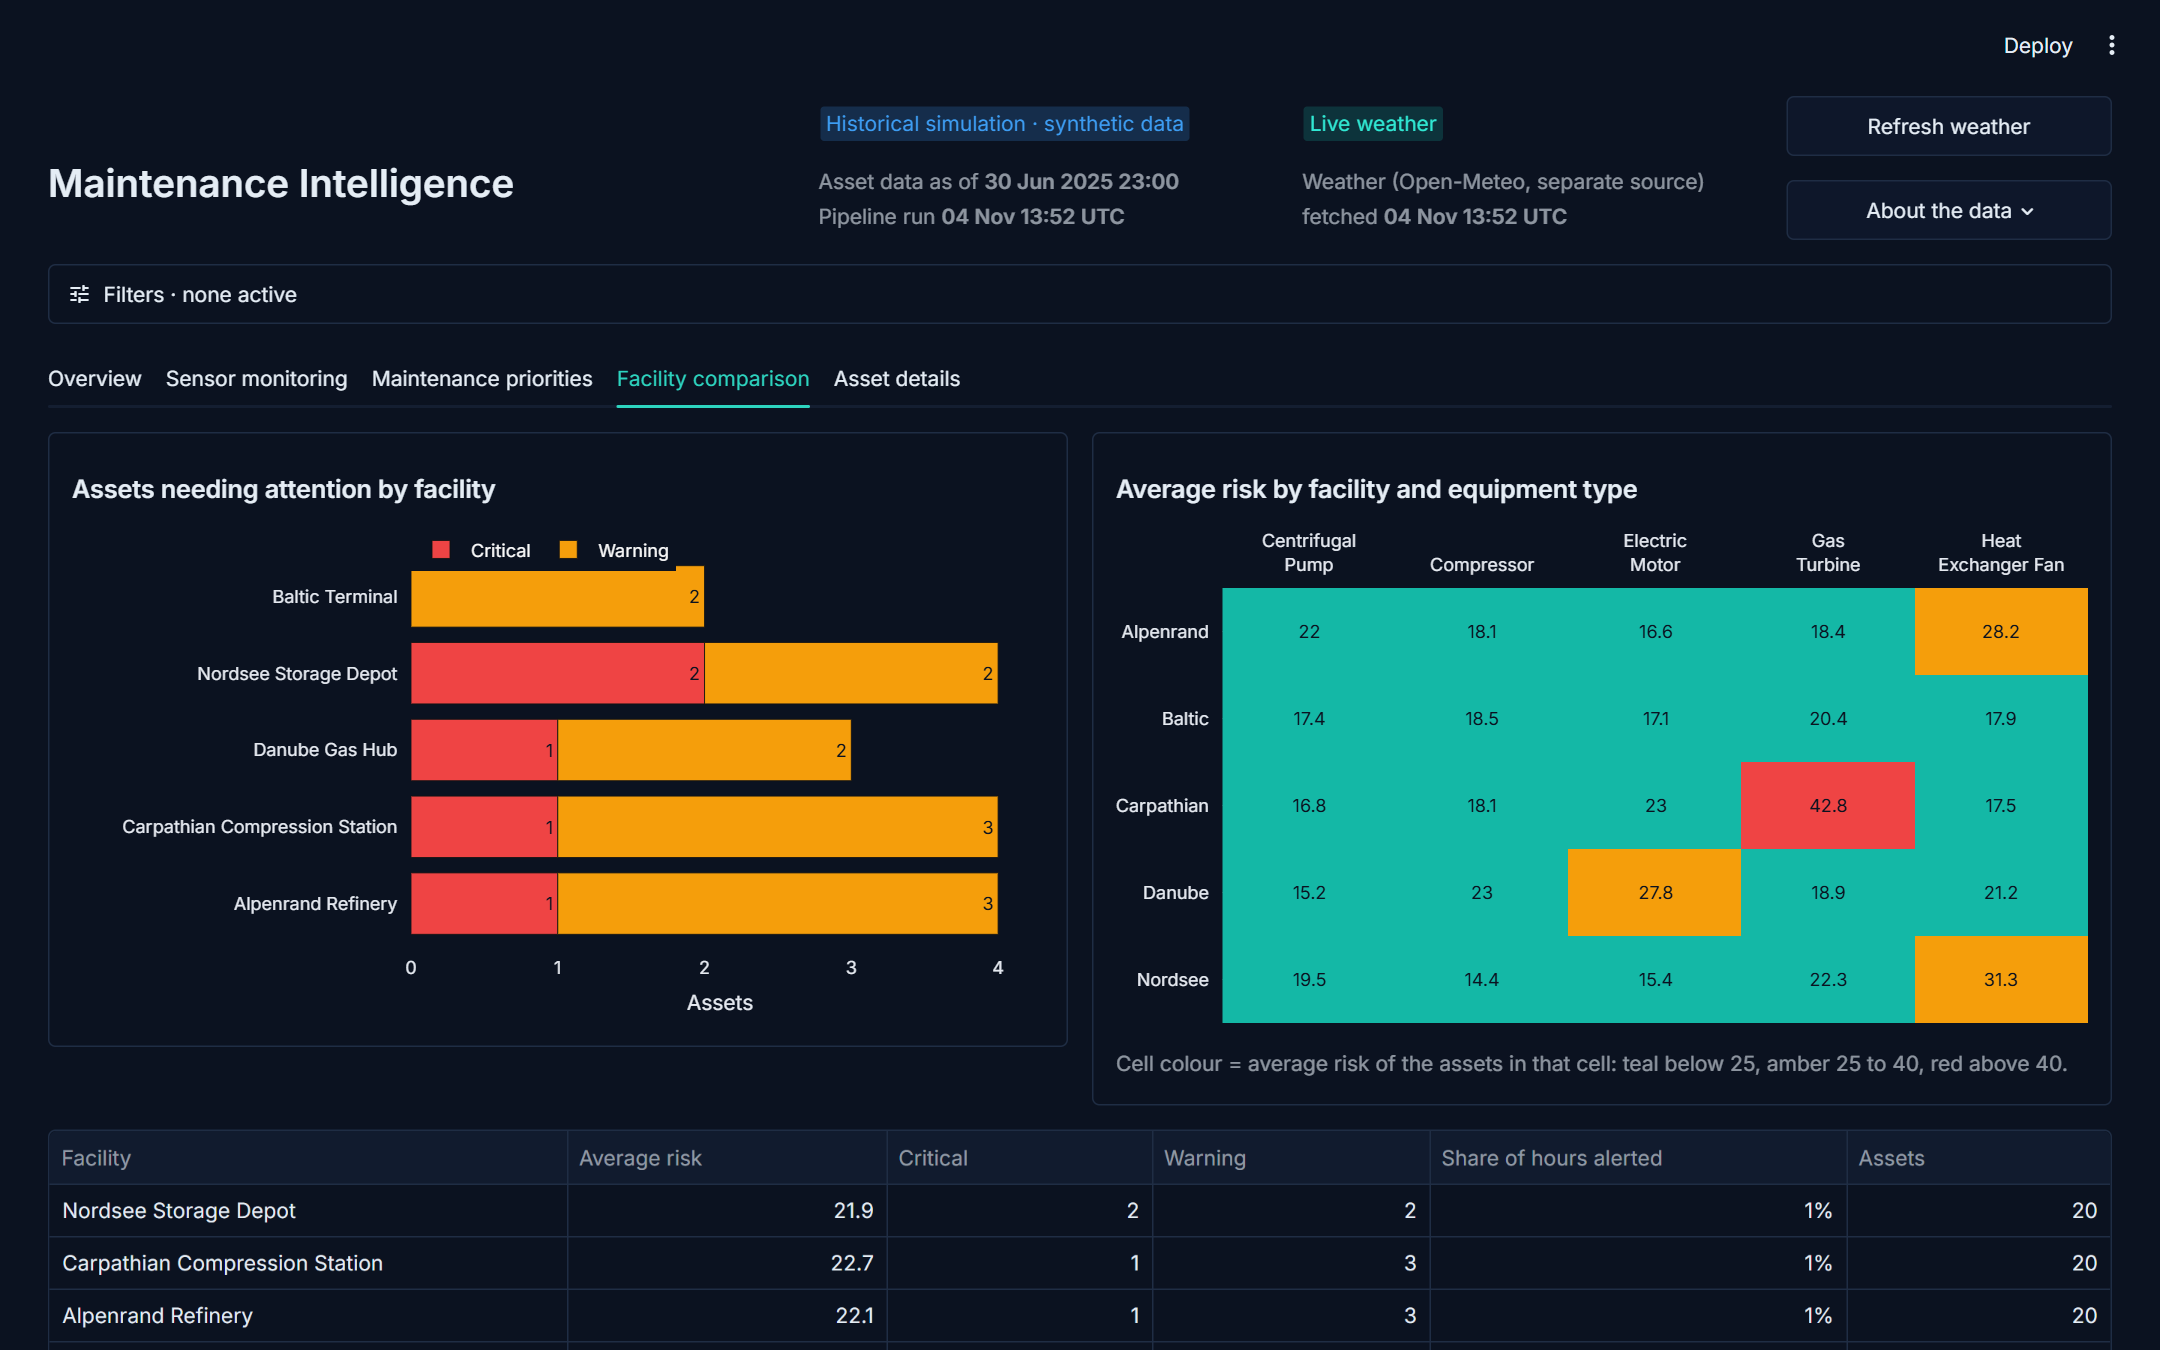
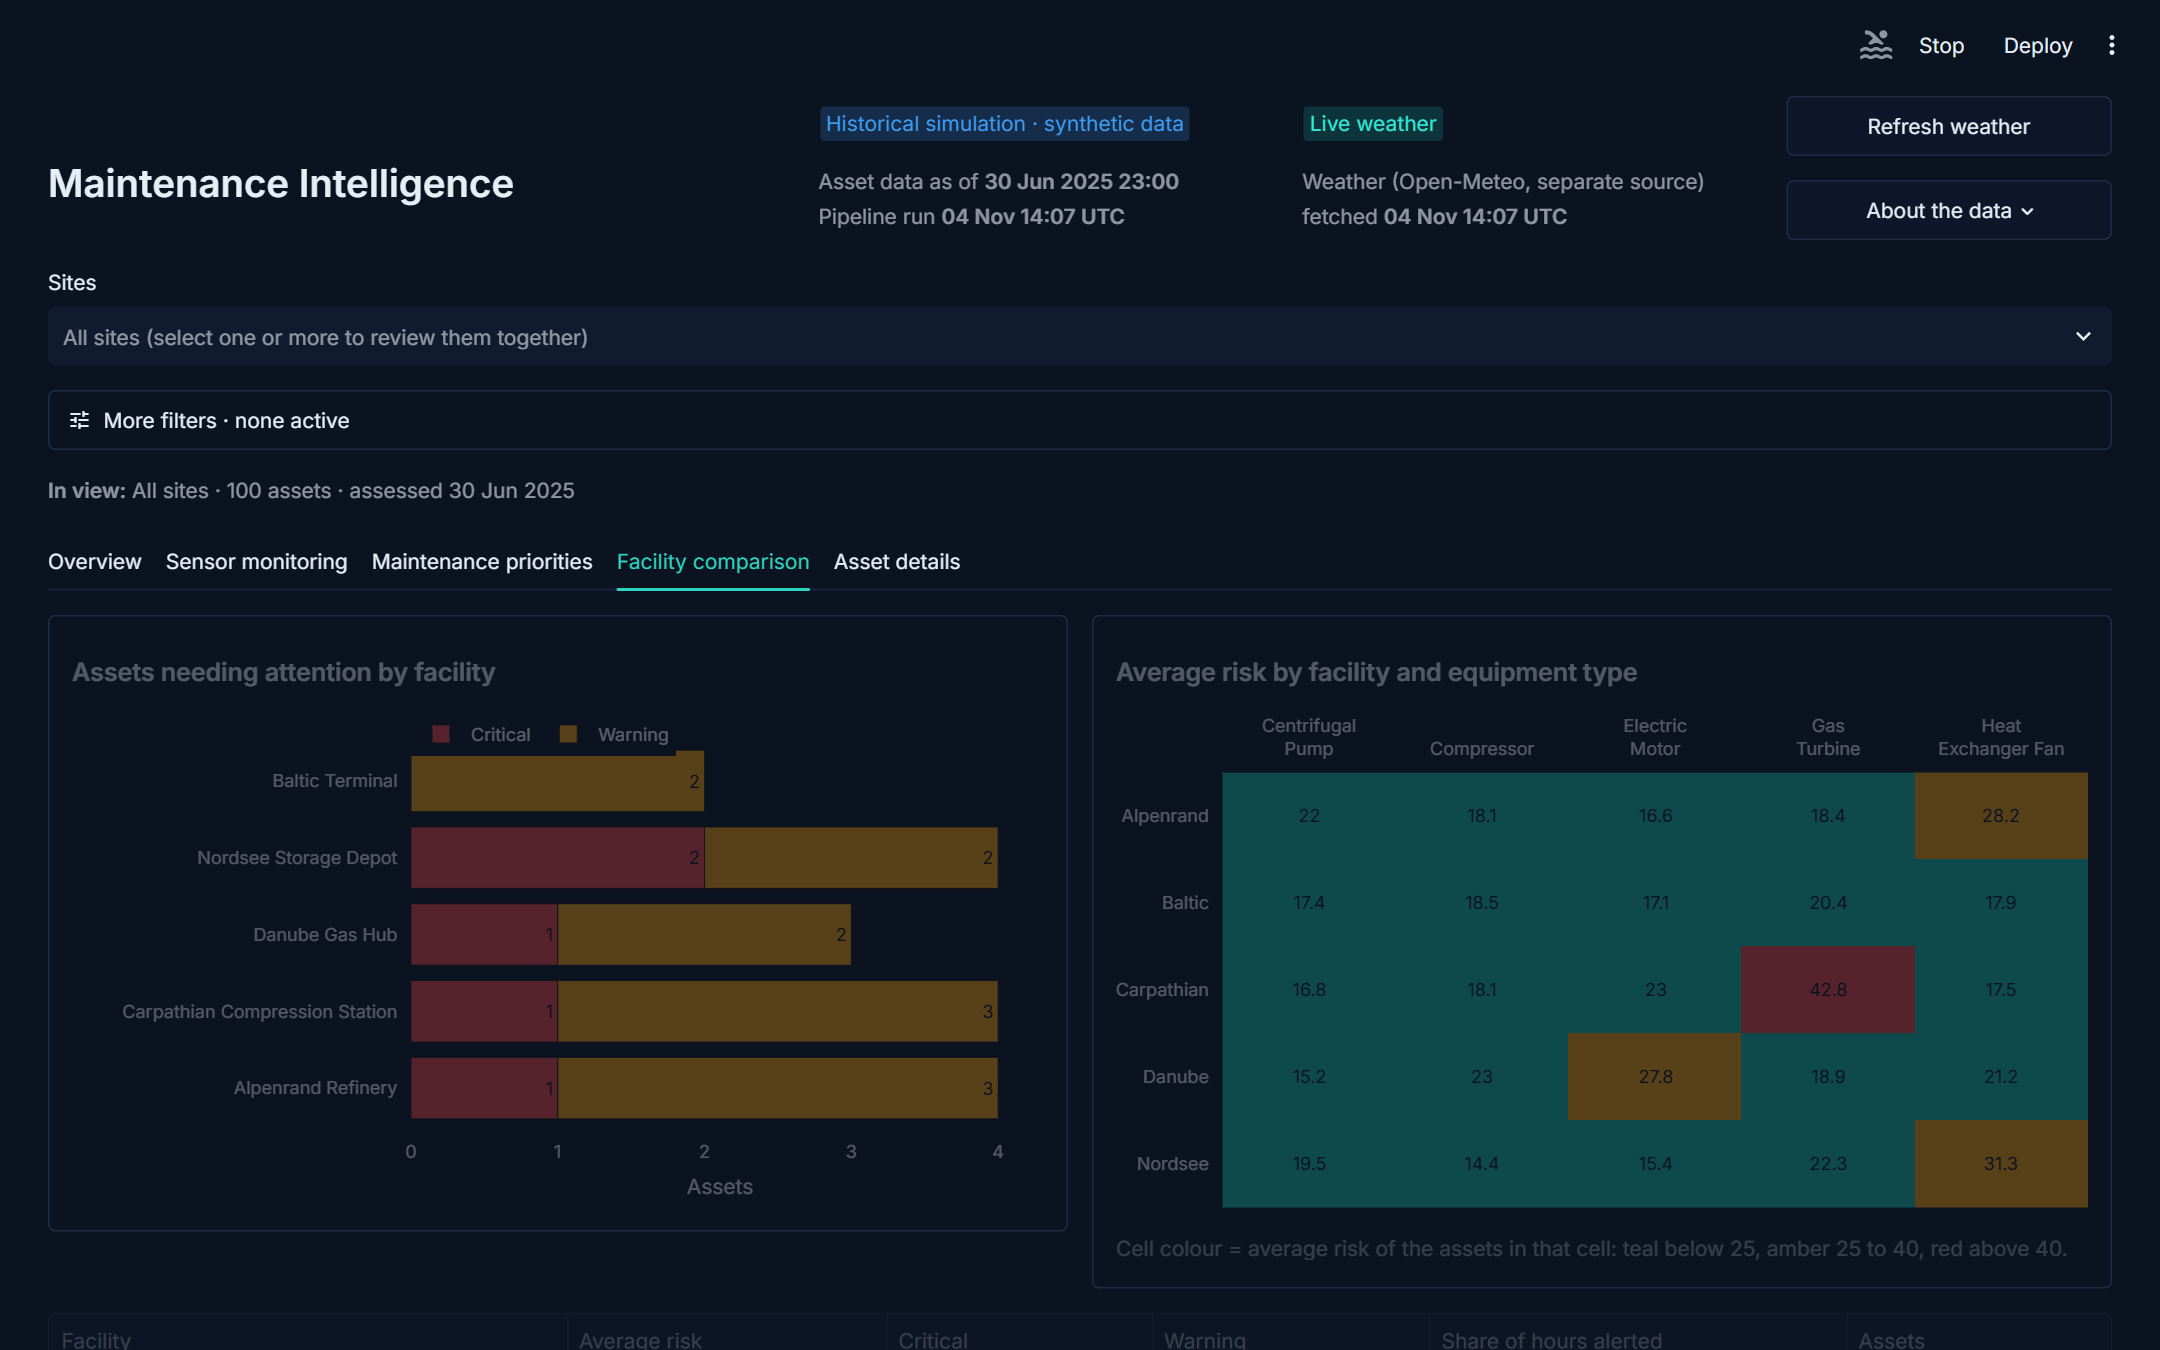
Visible multi-site picker, clear error and empty states, stale-link handling

diff --git a/app.py b/app.py
@@ -31,7 +31,12 @@ def live(_fac):  # refreshed at most every 15 min, or via the Refresh button
 
 
 ss = st.session_state
-D, synced = load()
+try:
+    D, synced = load()
+except Exception as e:  # first-run pipeline failure: clear message instead of a stack trace
+    st.error("Maintenance data could not be prepared, so no risk results are available. Reload the page to try again. If it keeps failing, the data files may be missing or damaged.")
+    st.caption(f"Technical detail: {type(e).__name__}: {e}")
+    st.stop()
 R, assets, fac = D["readings"], D["assets"], D["facilities"]
 COLORS = {"Low": "#14b8a6", "Medium": "#f59e0b", "High": "#ef4444"}  # teal / amber / red, always with a text label
 STATUS = {"Low": "Normal", "Medium": "Warning", "High": "Critical"}
@@ -121,7 +126,9 @@ with h[3]:
 qp = st.query_params
 if "seeded" not in ss:
     ss.seeded = True
-    ss.fsel, ss.tsel = [v for v in qp.get_all("site") if v in set(fac.name)], [v for v in qp.get_all("type") if v in set(assets.asset_type)]
+    sites, types = qp.get_all("site"), qp.get_all("type")
+    ss.fsel, ss.tsel = [v for v in sites if v in set(fac.name)], [v for v in types if v in set(assets.asset_type)]
+    ss.stale_link = len(ss.fsel) < len(sites) or len(ss.tsel) < len(types) or (qp.get("period") not in (None, "7", "30", "90"))
     if qp.get("period") in ("7", "30", "90"):
         ss.period = qp["period"]
     try:
@@ -129,30 +136,34 @@ if "seeded" not in ss:
     except (KeyError, ValueError):
         pass
 
-# ---- Filters: compact, collapsible
-n_active = bool(ss.get("fsel")) + bool(ss.get("tsel")) + (ss.get("period", "30") != "30") + (ss.get("asof", LAST.date()) != LAST.date())
-with st.expander(f"Filters · {n_active} active" if n_active else "Filters · none active", icon=":material/tune:"):
-    c = st.columns([2, 2, 1.4, 1.4, 0.8], vertical_alignment="bottom")
-    # empty selection = no filter
-    fsel = c[0].multiselect("Facilities", list(fac.name), key="fsel", placeholder="All facilities (type to search)") or list(fac.name)
-    tsel = c[1].multiselect("Asset types", sorted(assets.asset_type.unique()), key="tsel",
+# ---- Sites are always visible (empty = all sites; the line under the controls says exactly what is in view)
+fsel = st.multiselect("Sites", list(fac.name), key="fsel", placeholder="All sites (select one or more to review them together)") or list(fac.name)
+if ss.pop("stale_link", False):
+    st.info("Some saved selections in this link are no longer available. The view has been updated.")
+n_active = bool(ss.get("tsel")) + (ss.get("period", "30") != "30") + (ss.get("asof", LAST.date()) != LAST.date())
+with st.expander(f"More filters · {n_active} active" if n_active else "More filters · none active", icon=":material/tune:"):
+    c = st.columns([2, 1.4, 1.4, 0.8], vertical_alignment="bottom")
+    tsel = c[0].multiselect("Asset types", sorted(assets.asset_type.unique()), key="tsel",
                             placeholder="All asset types (type to search)") or sorted(assets.asset_type.unique())
-    period = int((c[2].segmented_control("Analysis period", ["7", "30", "90"], default="30", format_func=lambda d: f"{d} d", key="period") or "30"))
-    day = c[3].date_input("Risk assessment date", LAST.date(), min_value=(R.timestamp.min() + pd.Timedelta(days=8)).date(),
+    period = int((c[1].segmented_control("Analysis period", ["7", "30", "90"], default="30", format_func=lambda d: f"{d} d", key="period") or "30"))
+    day = c[2].date_input("Risk assessment date", LAST.date(), min_value=(R.timestamp.min() + pd.Timedelta(days=8)).date(),
                           max_value=LAST.date(), key="asof", help="Risk is scored on the 7 days before this date. Default: latest data.")
-    c[4].button("Reset all", on_click=reset, width="stretch")
-
+    c[3].button("Reset all", on_click=reset, width="stretch")
 as_of = min(pd.Timestamp(day) + pd.Timedelta(hours=23), LAST)
 T = risks(as_of)
 T = T[T.facility.isin(fsel) & T.asset_type.isin(tsel)]
 if T.empty:
-    st.warning("No assets match the filters.")
+    st.info("No assets match these filters. Select other sites or clear the filters.")
+    st.button("Clear filters", on_click=reset)
     st.stop()
 T = T.assign(status=T.level.map(STATUS), driver_label=T.driver.map(DRV))
 if "seeded_asset" not in ss:
     ss.seeded_asset = True
     if qp.get("asset") in set(T.asset_id):
         ss.d = ss.m = qp["asset"]
+for k in ("d", "m"):
+    if ss.get(k) not in set(T.asset_id):
+        ss.pop(k, None)  # asset left the current selection: fall back to the highest-risk one
 n_alerts = int(R.alert[R.asset_id.isin(T.asset_id) & (R.timestamp > as_of - pd.Timedelta(days=period)) & (R.timestamp <= as_of)].sum())
 n_crit = int((T.level == "High").sum())
 WEEK = pd.Timedelta(days=7)
@@ -161,6 +172,8 @@ T = T.assign(change=T.risk - T.asset_id.map(prev.risk) if prev is not None else 
 n_crit_prev = int((prev.loc[prev.index.isin(T.asset_id), "level"] == "High").sum()) if prev is not None else None
 avg_prev = prev.loc[prev.index.isin(T.asset_id), "risk"].mean() if prev is not None else None
 
+sites_txt = "All sites" if T.facility.nunique() == len(fac) else ", ".join(sorted(T.facility.unique()))
+st.caption(f"**In view:** {sites_txt} · {len(T)} assets · assessed {as_of:%d %b %Y}")
 tabs = st.tabs(["Overview", "Sensor monitoring", "Maintenance priorities", "Facility comparison", "Asset details"], key="tab", bind="query-params")
 
 with tabs[0]:
@@ -192,6 +205,9 @@ with tabs[0]:
             "risk": st.column_config.NumberColumn("Risk score (0-100)", format="%.0f"), "change": st.column_config.NumberColumn("Change vs 7 d", format="%+.1f"), "status": "Severity"})
         st.caption("Ranked by risk score. Select a row to open that asset in Asset details.")
 
+    if prev is None:
+        st.caption("Seven-day comparison is unavailable for this date: there is not enough earlier data.")
+
     c1, c2, c3 = st.columns([1.3, 1, 1.1])
     with c1.container(border=True):
         st.subheader("Facility risk map")
@@ -199,7 +215,7 @@ with tabs[0]:
                                                         assets=("asset_id", "count")).reset_index().merge(fac, on="facility_id")
         lv = live_df.set_index("facility_id") if not live_df.empty else None
         g["now"] = [f"{lv.temperature_2m[f]:.1f} °C, {lv.relative_humidity_2m[f]:.0f}% RH, wind {lv.wind_speed_10m[f]:.0f} km/h"
-                    if lv is not None else "live weather unavailable" for f in g.facility_id]
+                    if lv is not None and f in lv.index else "live weather unavailable" for f in g.facility_id]
         show(px.scatter_map(g, lat="latitude", lon="longitude", size="assets", color="avg_risk", zoom=3.3, center=dict(lat=50, lon=15),
                                        color_continuous_scale=SCALE, range_color=(15, 45), hover_name="facility",
                                        hover_data={"avg_risk": ":.1f", "critical": True, "assets": True, "now": True, "latitude": False, "longitude": False},
@@ -227,7 +243,12 @@ with tabs[0]:
             st.info("Live weather feed unavailable right now. Historical/synthetic weather is still used by the model.")
         else:
             for col, f in zip(st.columns(5), fac.itertuples()):
-                x = live_df[live_df.facility_id == f.facility_id].iloc[0]
+                row_w = live_df[live_df.facility_id == f.facility_id]
+                if row_w.empty:
+                    col.metric(f.name, "n/a")
+                    col.caption("Weather unavailable for this site")
+                    continue
+                x = row_w.iloc[0]
                 col.metric(f.name, f"{x.temperature_2m:.1f} °C")
                 col.caption(f"{x.relative_humidity_2m:.0f}% RH · wind {x.wind_speed_10m:.0f} km/h")
             st.caption("Open-Meteo forecast API, current conditions. Context only; the model trains on the historical archive.")
@@ -246,6 +267,11 @@ with tabs[1]:
     a = c[0].selectbox("Asset", list(T.asset_id), format_func=lambda x: f"{x} · {T.set_index('asset_id').asset_name[x]}", key="m", help="Type to search. The list follows the Facilities and Asset types filters at the top.")
     s = c[1].selectbox("Sensor", ["All"] + SENSORS)
     truth = c[2].toggle("Show simulated fault periods", False, help="Orange bands mark the faults injected into the synthetic data. They are evaluation labels, not model output.")
+    win = R[(R.asset_id == a) & R.timestamp.between(as_of - pd.Timedelta(days=period), as_of)]
+    if win.empty or win[SENSORS].isna().all(axis=None):
+        st.warning("No sensor readings are available for this asset and period, so its condition cannot be assessed here.")
+    elif not win.running.any():
+        st.info("This asset was on standby during this period. Low readings do not necessarily indicate a fault.")
     st.caption(f"{(as_of - pd.Timedelta(days=period)):%d %b} to {as_of:%d %b %Y}. Red dots are hours when the model flagged the asset as a whole (all four sensors together), so they appear on every chart, even where that sensor looks normal.")
     show(sensor_fig(a, SENSORS if s == "All" else [s], as_of - pd.Timedelta(days=period), as_of, truth), alt=f"Sensor readings for {a} over the last {period} days with model alerts")
     st.caption("Standby hours read low.")

diff --git a/README.md b/README.md
@@ -43,6 +43,8 @@ Both versions are Streamlit apps on the same analysis (`mi/`), so the risk score
 | Tables | Nine or ten narrow columns, facility names cut off | Seven focused columns in Overview, wider facility column, full explanation only in the priorities tab | Scannable at a glance. |
 | Layout polish | Uneven KPI cards; large facility name competing with risk on Asset details | Equal-height KPI cards; facility shown as a small line; heatmap colour legend and shareable-link tip added | Consistent components and clear hierarchy. |
 | Finding an asset | Asset list with no hint about how it was narrowed | Tooltip: type to search; the list follows the Facilities and Asset types filters | Discoverable without a second picker. |
+| Reviewing several sites | Facilities hidden inside a collapsed filter panel | A visible **Sites** picker: choose one or several sites, with an 'In view' line (sites, asset count, assessment date) above every tab | You always know exactly which sites you are looking at. |
+| Errors and empty states | Generic warning or a raw error | Plain messages for: data could not be prepared, no assets match (with a Clear filters button), a stale shared link, no readings or standby assets, weather unavailable for a site, and not enough history for the 7-day comparison | Nothing fails silently, and missing data is never shown as zero. |
 | Small screens | Status badges wrapped over several lines | Badges stay on one line and stack cleanly on phones | Usable on a phone. |
 
 | Version 1 | Version 2 |
